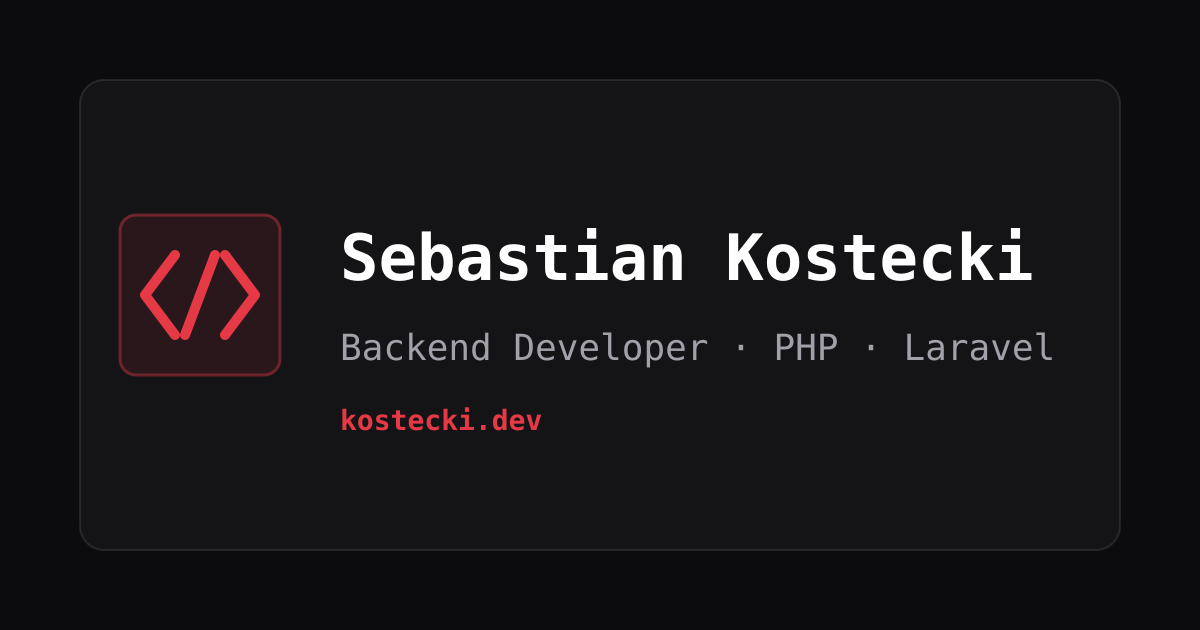
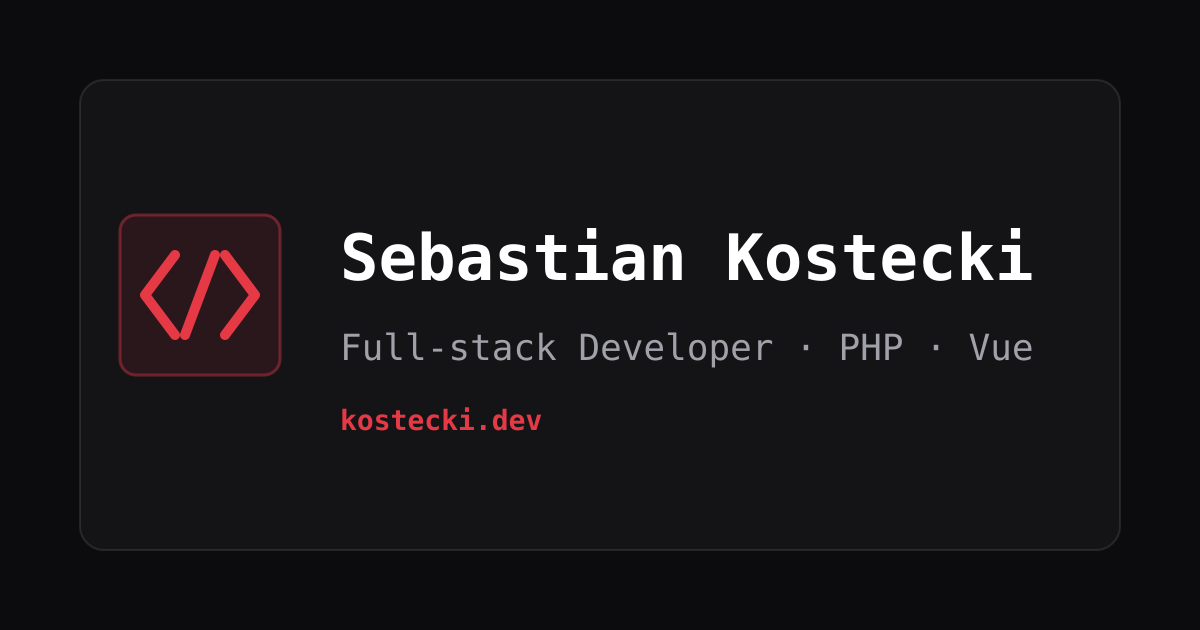
feat(update-v1): obraz OG z rolą full-stack i kontrola buildu (p4)

Changed region(s): [[0.2775, 0.5127, 0.8942, 0.573]]

diff --git a/context/changes/update-v1/plan.md b/context/changes/update-v1/plan.md
@@ -528,9 +528,9 @@ przywraca i jego.
 
 #### Automated
 
-- [x] 3.1 Cały linkedin-consistency.spec.ts przechodzi
-- [x] 3.2 Cały zestaw testów przechodzi
-- [x] 3.3 pnpm type-check i pnpm lint przechodzą
+- [x] 3.1 Cały linkedin-consistency.spec.ts przechodzi — 061a397
+- [x] 3.2 Cały zestaw testów przechodzi — 061a397
+- [x] 3.3 pnpm type-check i pnpm lint przechodzą — 061a397
 
 #### Manual
 
@@ -541,10 +541,10 @@ przywraca i jego.
 
 #### Automated
 
-- [ ] 4.1 pnpm test, pnpm lint i pnpm build przechodzą
-- [ ] 4.2 Grep w dist nie znajduje Cursor ani backend developer
-- [ ] 4.3 dist/index.html ma jobTitle Full-stack Developer i nową meta description
-- [ ] 4.4 dist/cv nie istnieje
+- [x] 4.1 pnpm test, pnpm lint i pnpm build przechodzą
+- [x] 4.2 Grep w dist nie znajduje Cursor ani backend developer
+- [x] 4.3 dist/index.html ma jobTitle Full-stack Developer i nową meta description
+- [x] 4.4 dist/cv nie istnieje
 
 #### Manual
 
